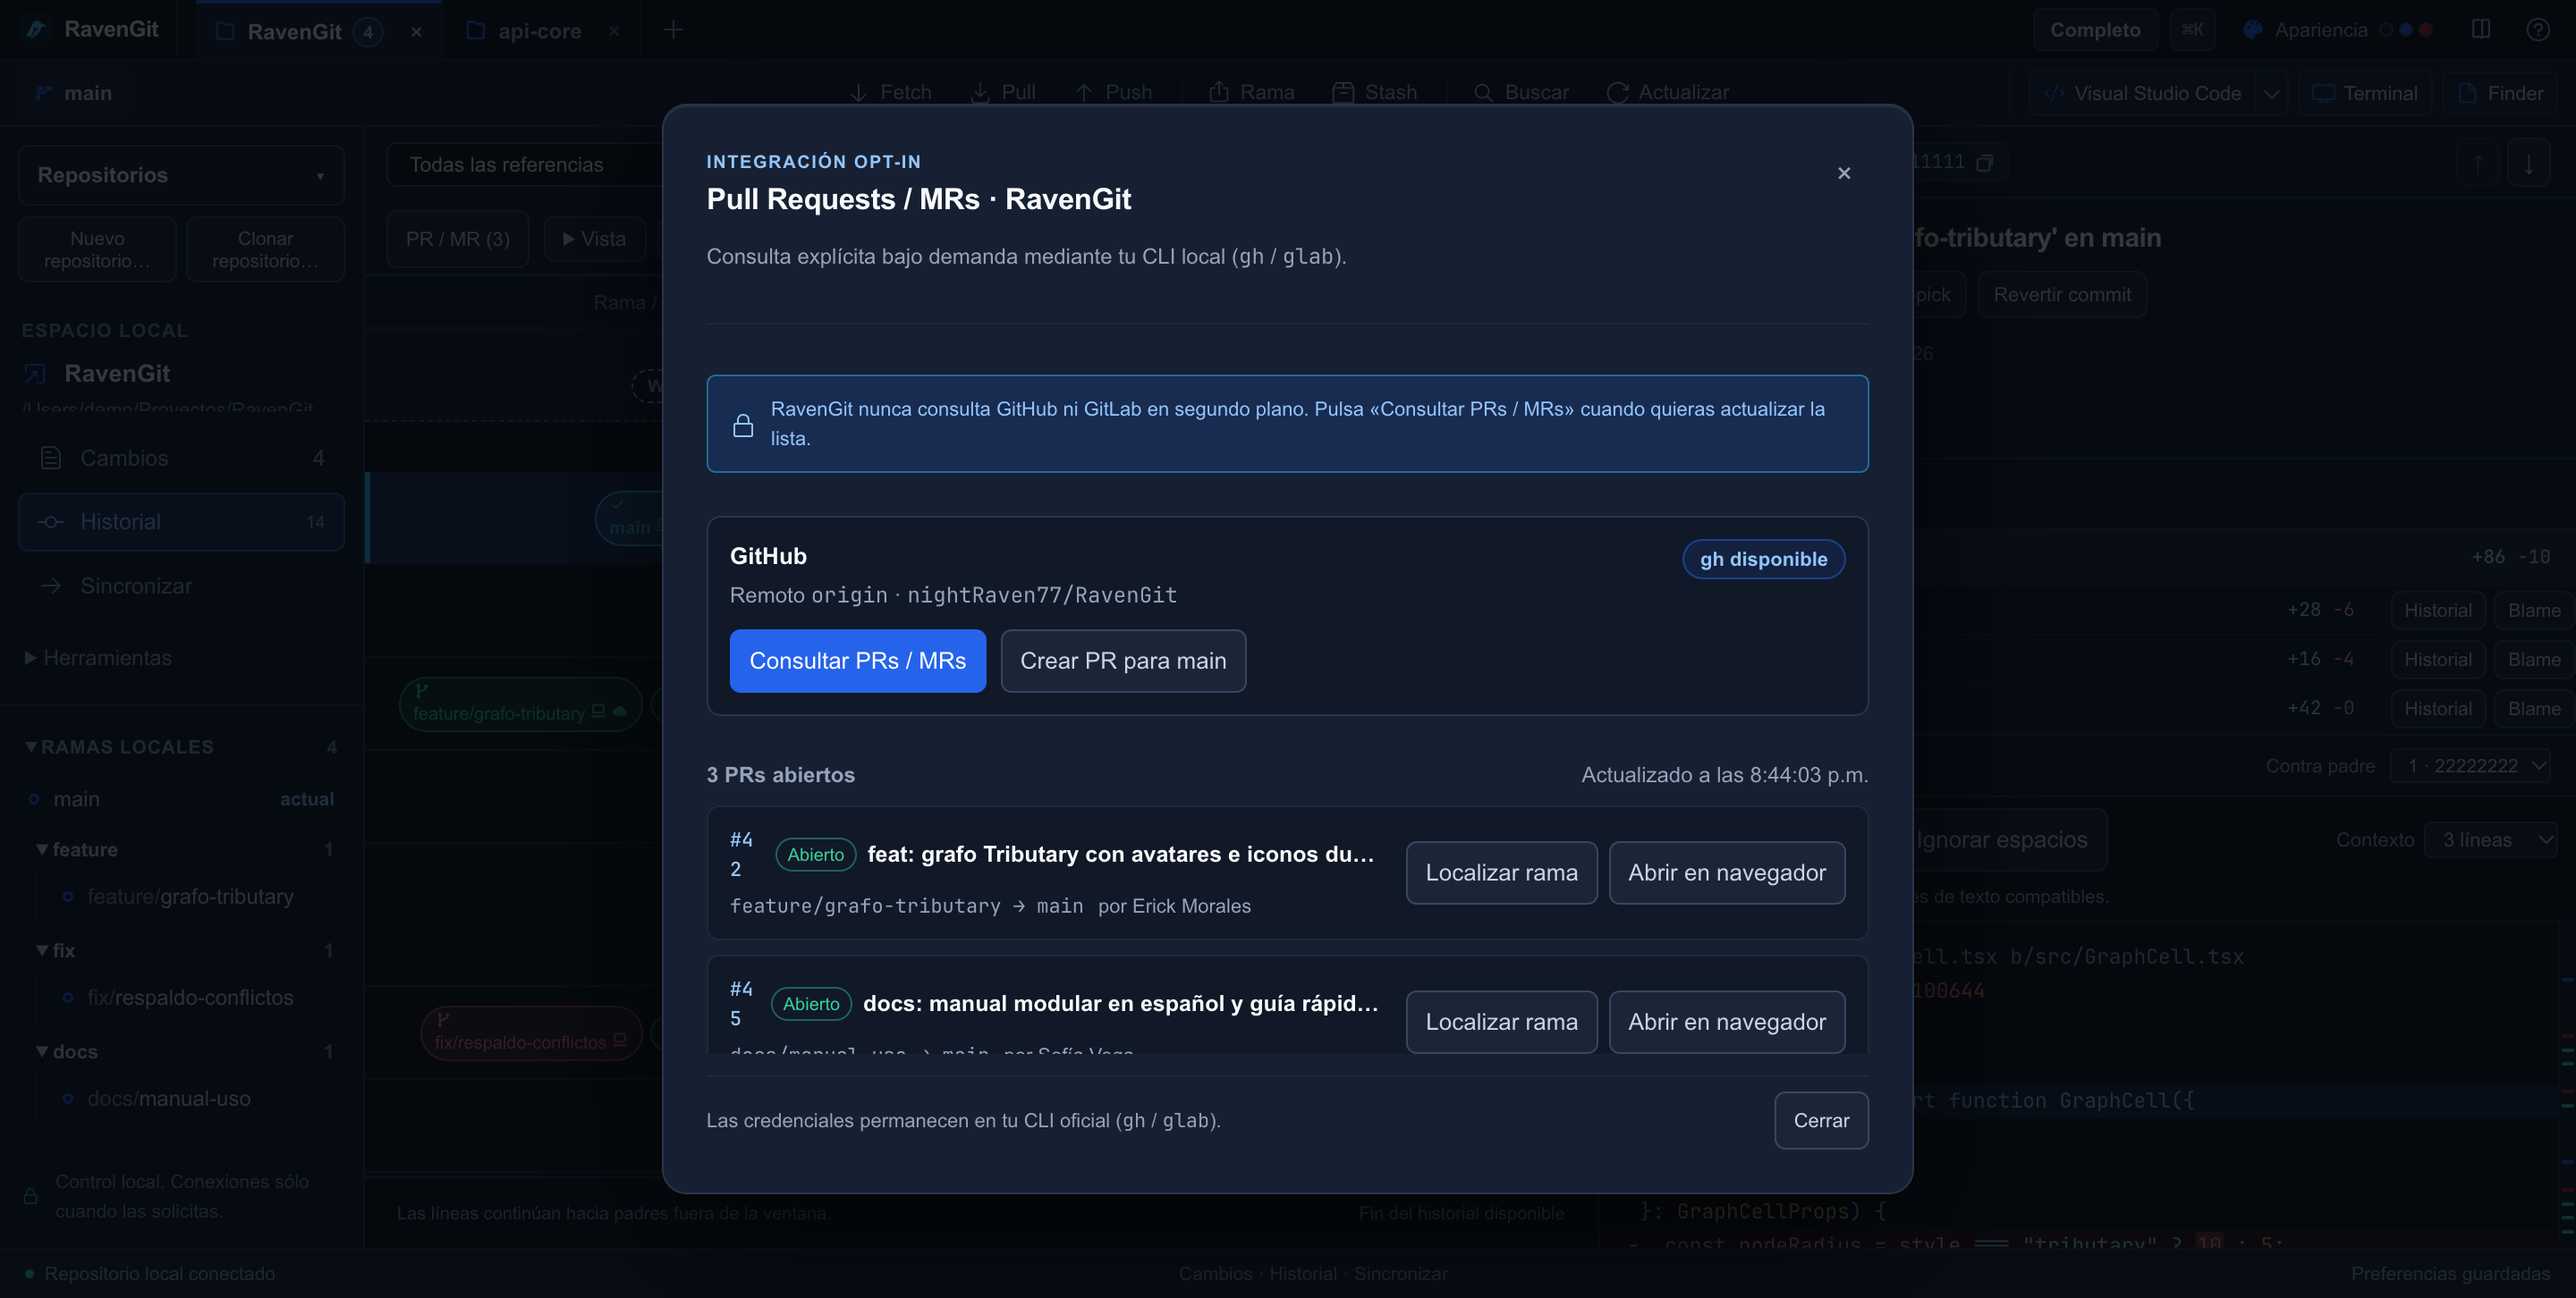
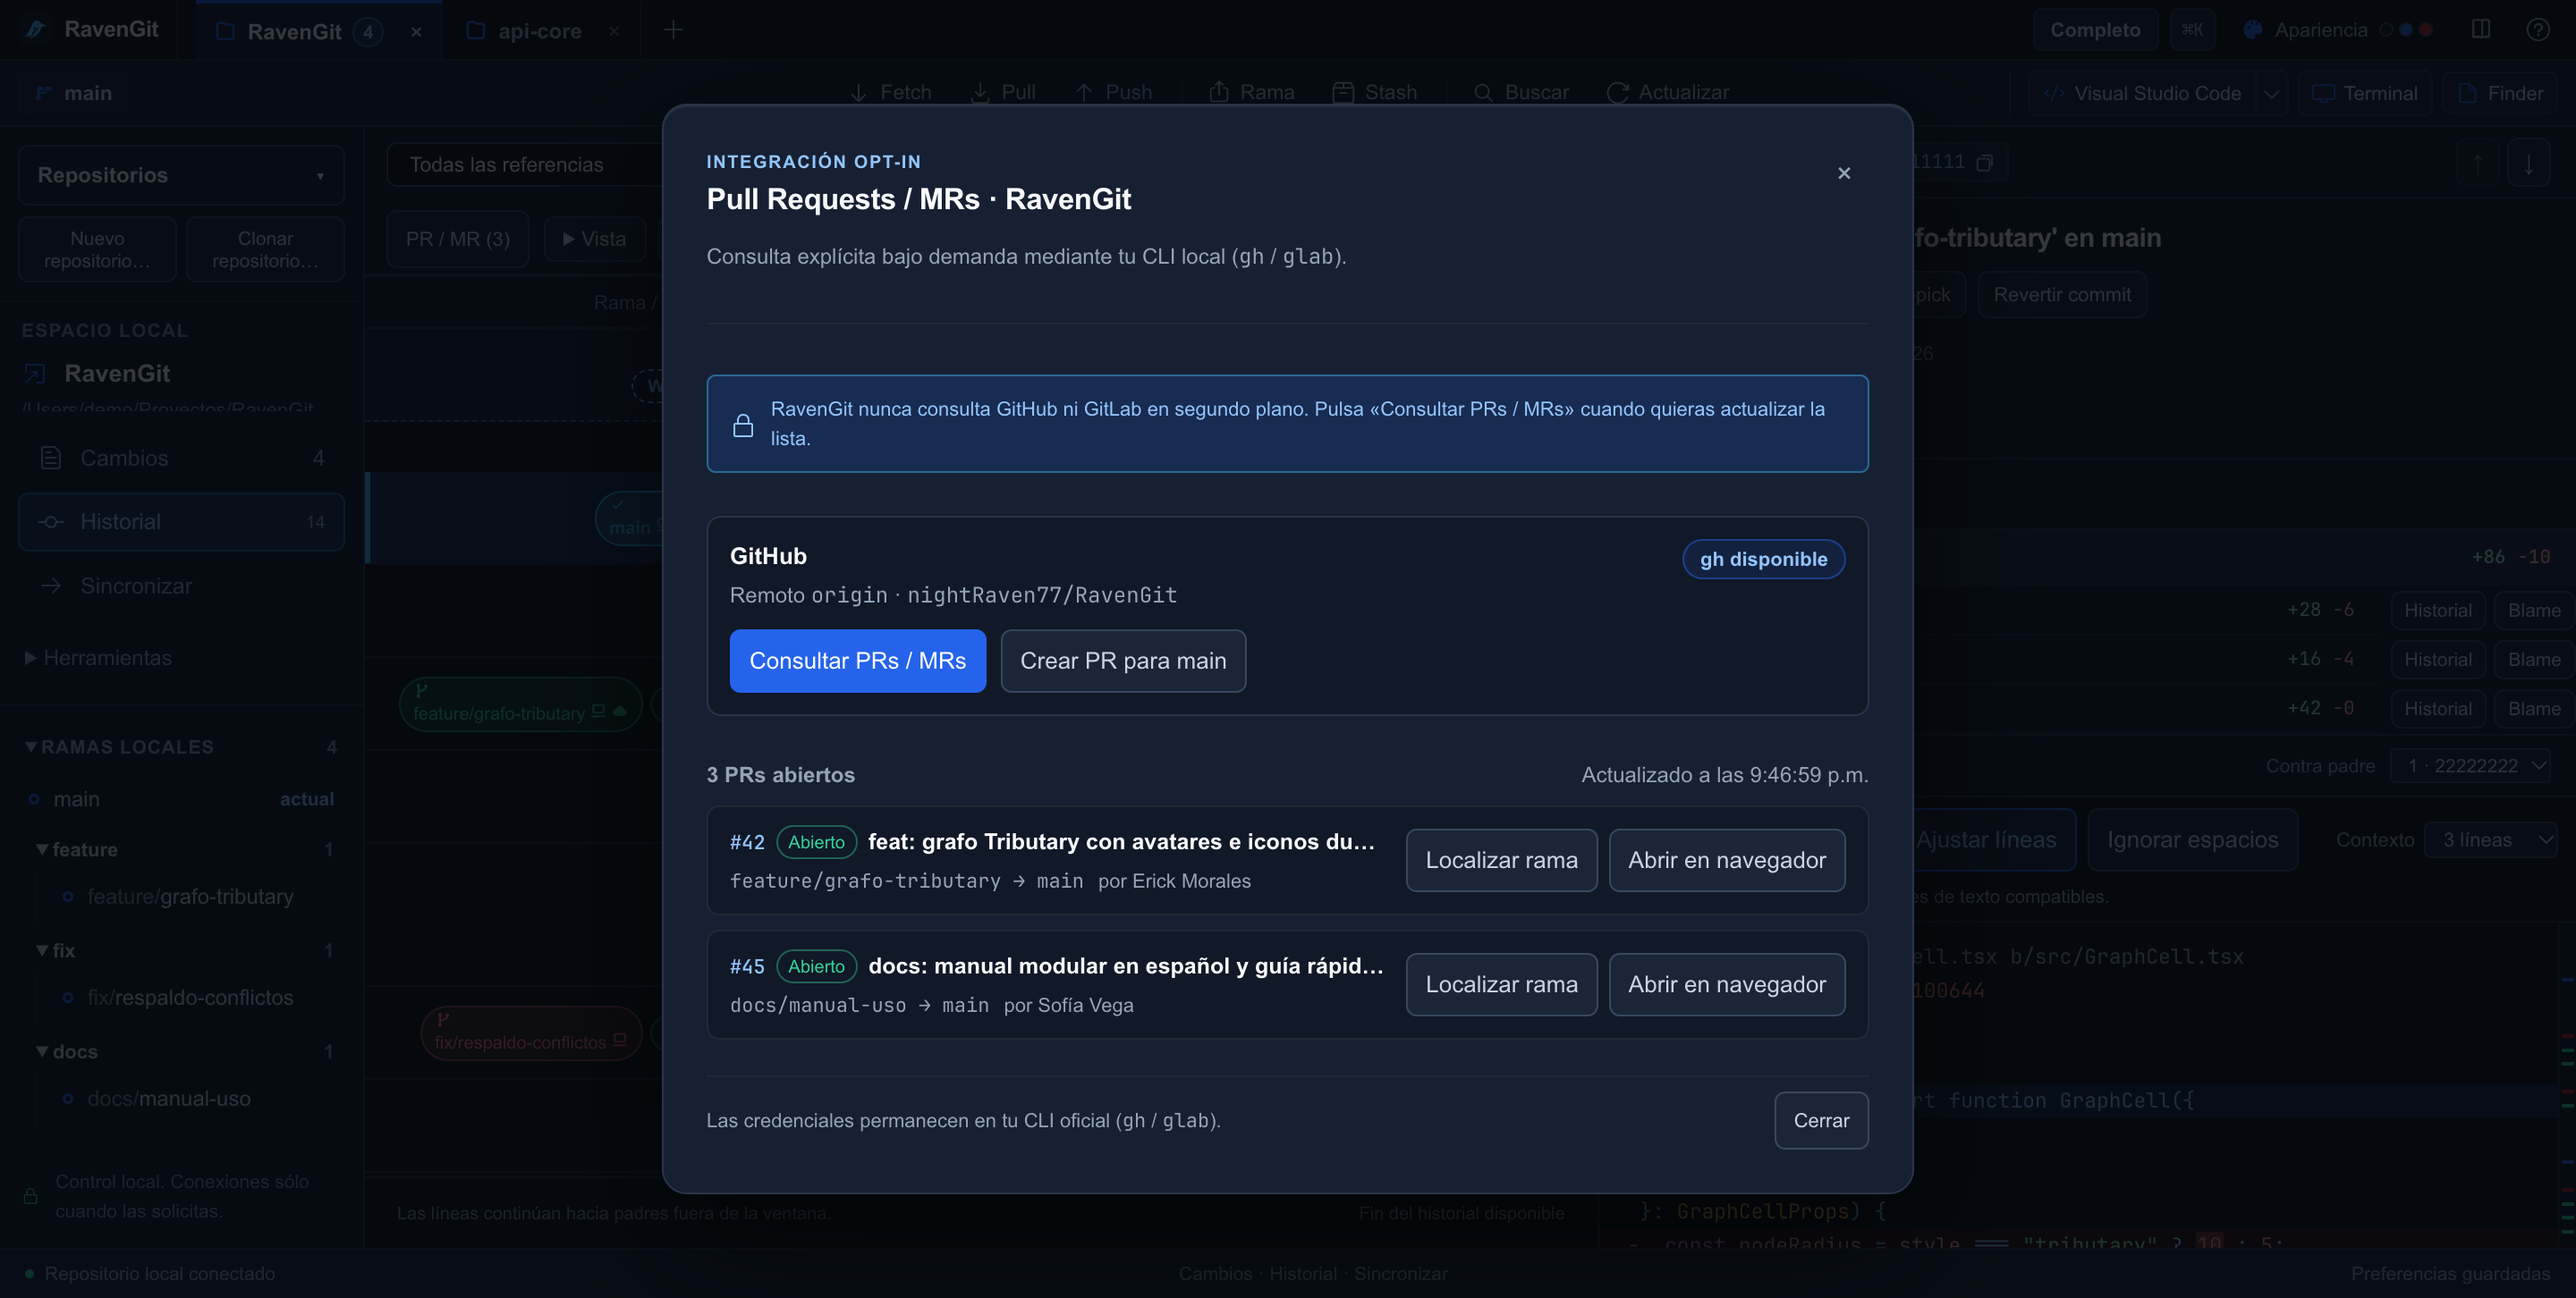
fix(ui): agregar ajuste de lineas en diffs y pulir dialogos y fila WIP

diff --git a/src/DiffViewer.tsx b/src/DiffViewer.tsx
@@ -28,6 +28,8 @@ export function DiffModeControl({
   onIgnoreWhitespaceChange,
   contextLines = 3,
   onContextLinesChange,
+  wrapLines = true,
+  onWrapLinesChange,
 }: {
   mode: DiffMode;
   onChange: (mode: DiffMode) => void;
@@ -36,6 +38,8 @@ export function DiffModeControl({
   onIgnoreWhitespaceChange?: (value: boolean) => void;
   contextLines?: number;
   onContextLinesChange?: (value: number) => void;
+  wrapLines?: boolean;
+  onWrapLinesChange?: (value: boolean) => void;
 }) {
   return (
     <div className="diff-mode" role="group" aria-label="Formato del diff">
@@ -56,6 +60,17 @@ export function DiffModeControl({
       >
         Dividido
       </button>
+      {onWrapLinesChange && (
+        <button
+          type="button"
+          className="button"
+          aria-pressed={wrapLines}
+          onClick={() => onWrapLinesChange(!wrapLines)}
+          title="Ajustar líneas largas al ancho del panel sin desplazamiento horizontal"
+        >
+          Ajustar líneas
+        </button>
+      )}
       {onIgnoreWhitespaceChange && (
         <button
           type="button"
@@ -352,6 +367,7 @@ export const DiffContent = memo(function DiffContent({
   selectedLines,
   onLineClick,
   showMinimap = true,
+  wrapLines = true,
 }: {
   text: string;
   mode?: DiffMode;
@@ -360,6 +376,7 @@ export const DiffContent = memo(function DiffContent({
   selectedLines?: ReadonlySet<number>;
   onLineClick?: (bodyLineIndex: number, shiftKey: boolean) => void;
   showMinimap?: boolean;
+  wrapLines?: boolean;
 }) {
   const wrapRef = useRef<HTMLDivElement>(null);
   const splitScrollRef = useRef<HTMLDivElement>(null);
@@ -423,7 +440,10 @@ export const DiffContent = memo(function DiffContent({
 
   if (mode === "split" && rows && splitMeta) {
     return (
-      <div ref={wrapRef} className="diff-content-wrap">
+      <div
+        ref={wrapRef}
+        className={`diff-content-wrap ${wrapLines ? "wrap-lines" : "no-wrap"}`}
+      >
         <div
           ref={splitScrollRef}
           className="split-scroll"
@@ -486,7 +506,10 @@ export const DiffContent = memo(function DiffContent({
           comparación dividida.
         </p>
       )}
-      <div ref={wrapRef} className="diff-content-wrap">
+      <div
+        ref={wrapRef}
+        className={`diff-content-wrap ${wrapLines ? "wrap-lines" : "no-wrap"}`}
+      >
         <pre aria-label="Contenido del diff">
           {lines.map((entry, i) => {
             const line = entry.raw;
@@ -591,6 +614,7 @@ export default function DiffViewer({
   onContextLinesChange?: (value: number) => void;
 }) {
   const [mode, setMode] = useState<DiffMode>("unified");
+  const [wrapLines, setWrapLines] = useState(true);
   const available = useMemo(() => splitDiff(text) !== null, [text]);
   const effective = available ? mode : "unified";
   return (
@@ -603,8 +627,15 @@ export default function DiffViewer({
         onIgnoreWhitespaceChange={onIgnoreWhitespaceChange}
         contextLines={contextLines}
         onContextLinesChange={onContextLinesChange}
+        wrapLines={wrapLines}
+        onWrapLinesChange={setWrapLines}
       />
-      <DiffContent text={text} mode={effective} filePath={filePath} />
+      <DiffContent
+        text={text}
+        mode={effective}
+        filePath={filePath}
+        wrapLines={wrapLines}
+      />
     </>
   );
 }

diff --git a/src/styles/dialogs.css b/src/styles/dialogs.css
@@ -1330,10 +1330,10 @@
 }
 .shortcuts-dialog {
   width: min(680px, calc(100vw - 32px));
-  max-height: min(82vh, 640px);
+  max-height: min(88vh, 720px);
   display: flex;
   flex-direction: column;
-  gap: 12px;
+  gap: 10px;
 }
 .shortcuts-search {
   display: flex;
@@ -1378,10 +1378,10 @@
   border: 1px solid var(--border-subtle);
   background: var(--bg-surface);
   border-radius: 8px;
-  padding: 10px 12px;
+  padding: 9px 12px;
   display: flex;
   flex-direction: column;
-  gap: 8px;
+  gap: 6px;
 }
 .shortcuts-group h3 {
   margin: 0;
@@ -1397,7 +1397,7 @@
   padding: 0;
   display: flex;
   flex-direction: column;
-  gap: 6px;
+  gap: 5px;
 }
 .shortcut-row {
   display: flex;
@@ -1553,12 +1553,16 @@
   font-size: 11px;
   color: var(--accent-text);
   font-weight: 600;
+  white-space: nowrap;
+  flex-shrink: 0;
 }
 .pr-state-pill {
   font-size: 10px;
   padding: 1px 6px;
   border-radius: 999px;
   border: 1px solid var(--border-default);
+  white-space: nowrap;
+  flex-shrink: 0;
 }
 .pr-state-pill.open {
   color: var(--success);
@@ -1716,4 +1720,53 @@
   display: flex;
   align-items: center;
   gap: 8px;
+}
+.primary-button,
+.ghost-button {
+  display: inline-flex;
+  align-items: center;
+  justify-content: center;
+  gap: 6px;
+  padding: 6px 11px;
+  border-radius: 6px;
+  font-size: 12px;
+  font-weight: 500;
+  white-space: nowrap;
+  cursor: pointer;
+}
+.primary-button {
+  border: 1px solid var(--accent);
+  background: var(--accent);
+  color: var(--accent-contrast);
+}
+.primary-button:hover:not(:disabled) {
+  background: var(--accent-hover);
+}
+.ghost-button {
+  border: 1px solid var(--border-strong);
+  background: var(--bg-control);
+  color: var(--text-secondary);
+}
+.ghost-button:hover:not(:disabled) {
+  background: var(--bg-control-hover);
+}
+.ghost-button.danger-button,
+.danger-button {
+  border-color: var(--danger-border);
+  color: var(--danger-text);
+}
+.ghost-button.danger-button:hover:not(:disabled),
+.danger-button:hover:not(:disabled) {
+  background: var(--danger-soft);
+}
+.primary-button:disabled,
+.ghost-button:disabled {
+  opacity: 0.5;
+  cursor: not-allowed;
+}
+.snapshots-dialog footer.dialog-actions {
+  display: flex;
+  justify-content: flex-end;
+  gap: 8px;
+  margin-top: 10px;
 }

diff --git a/src/ChangesPanel.tsx b/src/ChangesPanel.tsx
@@ -83,6 +83,7 @@ export default function ChangesPanel({
   const [preferTextForImage, setPreferTextForImage] = useState(false);
   const imageDiffRequest = useRef(0);
   const [diffMode, setDiffMode] = useState<DiffMode>("unified");
+  const [wrapLines, setWrapLines] = useState(true);
   const [ignoreWhitespace, setIgnoreWhitespace] = useState(false);
   const [contextLines, setContextLines] = useState(3);
   const [lineSelection, setLineSelection] = useState<{
@@ -1266,6 +1267,8 @@ export default function ChangesPanel({
                     mode={effectiveDiffMode}
                     onChange={setDiffMode}
                     available={splitAvailable}
+                    wrapLines={wrapLines}
+                    onWrapLinesChange={setWrapLines}
                     ignoreWhitespace={ignoreWhitespace}
                     onIgnoreWhitespaceChange={
                       selectedEntry?.untracked ? undefined : setIgnoreWhitespace
@@ -1403,6 +1406,7 @@ export default function ChangesPanel({
                             text={hunk.text}
                             mode={effectiveDiffMode}
                             filePath={selected.path}
+                            wrapLines={wrapLines}
                             selectable={effectiveDiffMode === "unified"}
                             selectedLines={selectedSet}
                             onLineClick={(bodyIdx, shiftKey) =>
@@ -1416,6 +1420,7 @@ export default function ChangesPanel({
                     <DiffContent
                       mode={effectiveDiffMode}
                       filePath={selected.path}
+                      wrapLines={wrapLines}
                       text={diff.text || "Sin diferencias de contenido."}
                     />
                   )}

diff --git a/src/styles/tributary.css b/src/styles/tributary.css
@@ -124,11 +124,28 @@
   color: var(--accent-text);
 }
 .wip-row.tributary .wip-main {
+  grid-column: 3 / -1;
+  display: flex;
+  flex-direction: column;
+  align-items: flex-start;
+  justify-content: center;
+  gap: 4px;
   padding-left: 6px;
+  padding-right: 12px;
+}
+.wip-header-line {
+  display: inline-flex;
+  align-items: center;
+  gap: 10px;
+  min-width: 0;
 }
 .wip-row.tributary .wip-cta {
-  padding-right: 12px;
-  justify-self: end;
+  padding-right: 0;
+  margin-left: 0;
+  white-space: nowrap;
+  font-size: 11px;
+  font-weight: 500;
+  color: var(--accent-text);
 }
 .graph-style-grid {
   display: grid;
@@ -141,16 +158,18 @@
   gap: 6px;
 }
 .appearance-preview-refs {
-  width: 124px;
+  width: 172px;
   flex-shrink: 0;
   display: flex;
   align-items: center;
   justify-content: flex-end;
   gap: 4px;
+  padding-left: 4px;
   overflow: hidden;
 }
 .appearance-preview-refs .ref {
-  max-width: 68px;
+  max-width: 84px;
+  flex-shrink: 0;
   font-size: 9px;
   border-radius: 999px;
 }

diff --git a/src/DiffViewer.test.tsx b/src/DiffViewer.test.tsx
@@ -122,3 +122,22 @@ it("muestra controles -w, contexto y minimapa en diffs largos", async () => {
   );
   expect(onContext).toHaveBeenCalledWith(6);
 });
+
+it("activa ajuste de líneas por defecto y permite alternarlo", async () => {
+  const { container } = render(
+    <DiffViewer
+      text={
+        '@@ -1 +1 @@\n-const larga = "texto muy largo";\n+const larga = "texto muy largo actualizado para probar ajuste";\n'
+      }
+      filePath="src/wrap.ts"
+    />,
+  );
+
+  const toggle = screen.getByRole("button", { name: "Ajustar líneas" });
+  expect(toggle.getAttribute("aria-pressed")).toBe("true");
+  expect(container.querySelector(".diff-content-wrap.wrap-lines")).toBeTruthy();
+
+  await userEvent.click(toggle);
+  expect(toggle.getAttribute("aria-pressed")).toBe("false");
+  expect(container.querySelector(".diff-content-wrap.no-wrap")).toBeTruthy();
+});

diff --git a/src/HistoryRow.tsx b/src/HistoryRow.tsx
@@ -392,7 +392,10 @@ export function WipRow({
         </svg>
       </span>
       <span className="wip-main">
-        <span className="wip-title">Cambios sin commitear (WIP)</span>
+        <span className="wip-header-line">
+          <span className="wip-title">Cambios sin commitear (WIP)</span>
+          <span className="wip-cta">Ir a Cambios →</span>
+        </span>
         <span className="wip-badges">
           {wip.staged > 0 && (
             <span className="wip-badge staged">{wip.staged} preparados</span>
@@ -412,7 +415,6 @@ export function WipRow({
           )}
         </span>
       </span>
-      <span className="wip-cta">Ir a Cambios →</span>
     </button>
   );
 }

diff --git a/src/App.css b/src/App.css
@@ -1203,6 +1203,25 @@ p {
   padding: 0 16px;
   white-space: pre;
 }
+.diff-content-wrap.wrap-lines > pre {
+  white-space: pre-wrap;
+  width: 100%;
+  max-width: 100%;
+  box-sizing: border-box;
+}
+.diff-content-wrap.wrap-lines .diff-line {
+  white-space: pre-wrap;
+  overflow-wrap: anywhere;
+  word-break: break-word;
+}
+.diff-content-wrap.no-wrap .split-diff {
+  table-layout: auto;
+}
+.diff-content-wrap.no-wrap .split-cell,
+.diff-content-wrap.no-wrap .split-meta {
+  white-space: pre;
+  overflow-wrap: normal;
+}
 .diff-line.addition {
   color: var(--success-text);
   background: var(--success-soft);
